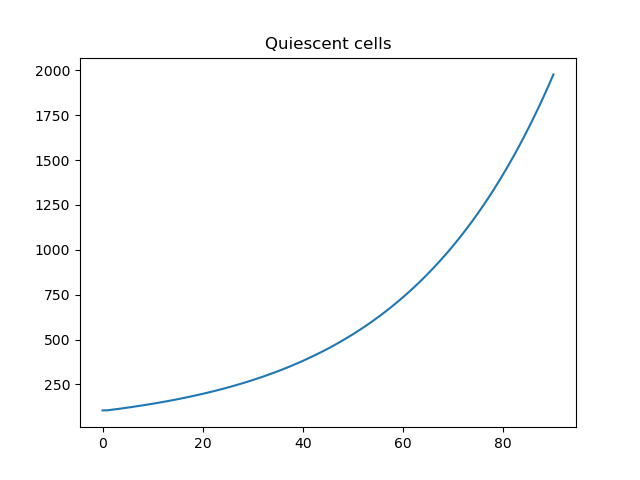
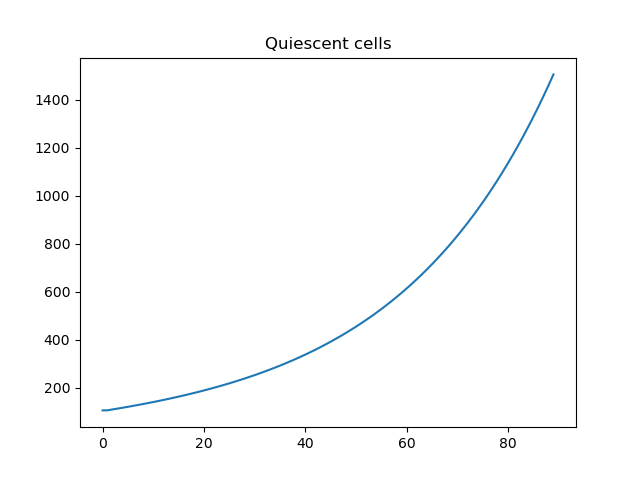
Updating for review.

diff --git a/AlphaSilico/src/insilico.py b/AlphaSilico/src/insilico.py
@@ -51,7 +51,7 @@ class TumorModel:
     # Constants
     intermitotic_SD = 6.7 / 24 / 30
     PSI12 = 5 * 30  # Cytokine production half effect  # MISSING * 30 IN MATLAB CODE ???
-    gamma_P = 0.35 * 30  # From Barrish 2017 PNAS elimination rate of phagocyte  # CLEARANCE RATE > 1 ??? P STRONGLY LIMITED
+    gamma_P = 0.35  # * 30  # From Barrish 2017 PNAS elimination rate of phagocyte  # CLEARANCE RATE > 1 ??? P STRONGLY LIMITED
 
     def __init__(self, immunotherapy, virotherapy, a1=1.183658646441553*30, a2=1.758233712464858*30, d1=0, d2=0.539325116600707*30,
                  kp=0.05*30, kq=10, k_cp=4.6754*30):
@@ -136,7 +136,16 @@ class TumorModel:
         NR = (self.tau / self.total_time) * self.total_cells * self.nu  # Total number resistant cells in cycle
         self.initial_conditions = [Q, G1, I, V] + A.tolist() + [C, P, N, QR, G1R] + AR.tolist() + [NR]  # Length 28 with N = 9
 
+        self.immune_dose_history = []
+
     def immune_dose(self, t):
+
+        """
+        TO DO:
+            - Bug when tracking immunotherapy through time
+        :param t: Float. Current time in months.
+        :return: Float. Current instantaneous change in immunotherapy.
+        """
 
         time_mask = np.where(t > self.t_immune_admin)  # Mask doses that have not yet been applied
 
@@ -145,6 +154,8 @@ class TumorModel:
 
         doses = self.immune_k_abs * self.immune_availability * self.immune_admin * immunotherapy  # Convert doses to available cytokines
         decay = np.exp(-self.immune_k_abs * (t - t_admin))  # Exponential decay term
+
+        self.immune_dose_history.append(np.sum(doses*decay)/self.vol)
 
         return np.sum(doses*decay)/self.vol
 
@@ -172,7 +183,7 @@ class TumorModel:
 
         # Auxiliary function
         infection = 0
-        if V > 1e-10:
+        if V > 1e-10:  # lipschitz continuity?
             infection = V / (self.eta12 + V)
         eta = self.kappa * infection
         phi = self.k_cp * C / (self.C12 + C)  # DIFFERENCE BETWEEN MATLAB (PSI12) CODE AND S.I (PSI12 VS C12).
@@ -239,7 +250,7 @@ class TumorModel:
         :return: Simulation history. Includes initial conditions as first entry.
         """
 
-        r = ode(self.evaluate_derivatives).set_integrator('vode', method='bdf', nsteps=nsteps)
+        r = ode(self.evaluate_derivatives).set_integrator('vode', method='bdf', nsteps=nsteps, max_step=1/30/20)
         # r = ode(self.evaluate_derivatives).set_integrator('lsoda', nsteps=nsteps)  # Small numerical fluctuations
         r.set_initial_value(self.initial_conditions, t_start)  # Set initial conditions
 

diff --git a/AlphaSilico/main.py b/AlphaSilico/main.py
@@ -14,8 +14,6 @@ from AlphaSilico.src.learner import Learner
 
 # Number of doses per day of treatment
 immunotherapy = np.ones(75)
-# immunotherapy = np.zeros(75)
-# immunotherapy[np.arange(immunotherapy.size) % 7 == 0] = 1
 virotherapy = np.ones(10)
 
 # Model
@@ -43,5 +41,7 @@ plt.plot(np.arange(0, tumor_size.size), tumor_size)
 plt.title('Tumor size')
 plt.savefig('outputs/Tumor size.png')
 
-
-
+plt.figure()
+plt.plot(np.arange(250), tumor.immune_dose_history[0:250])
+plt.title('Immunotherapy vs time')
+plt.savefig('outputs/Immunotherapy_doses.png')
